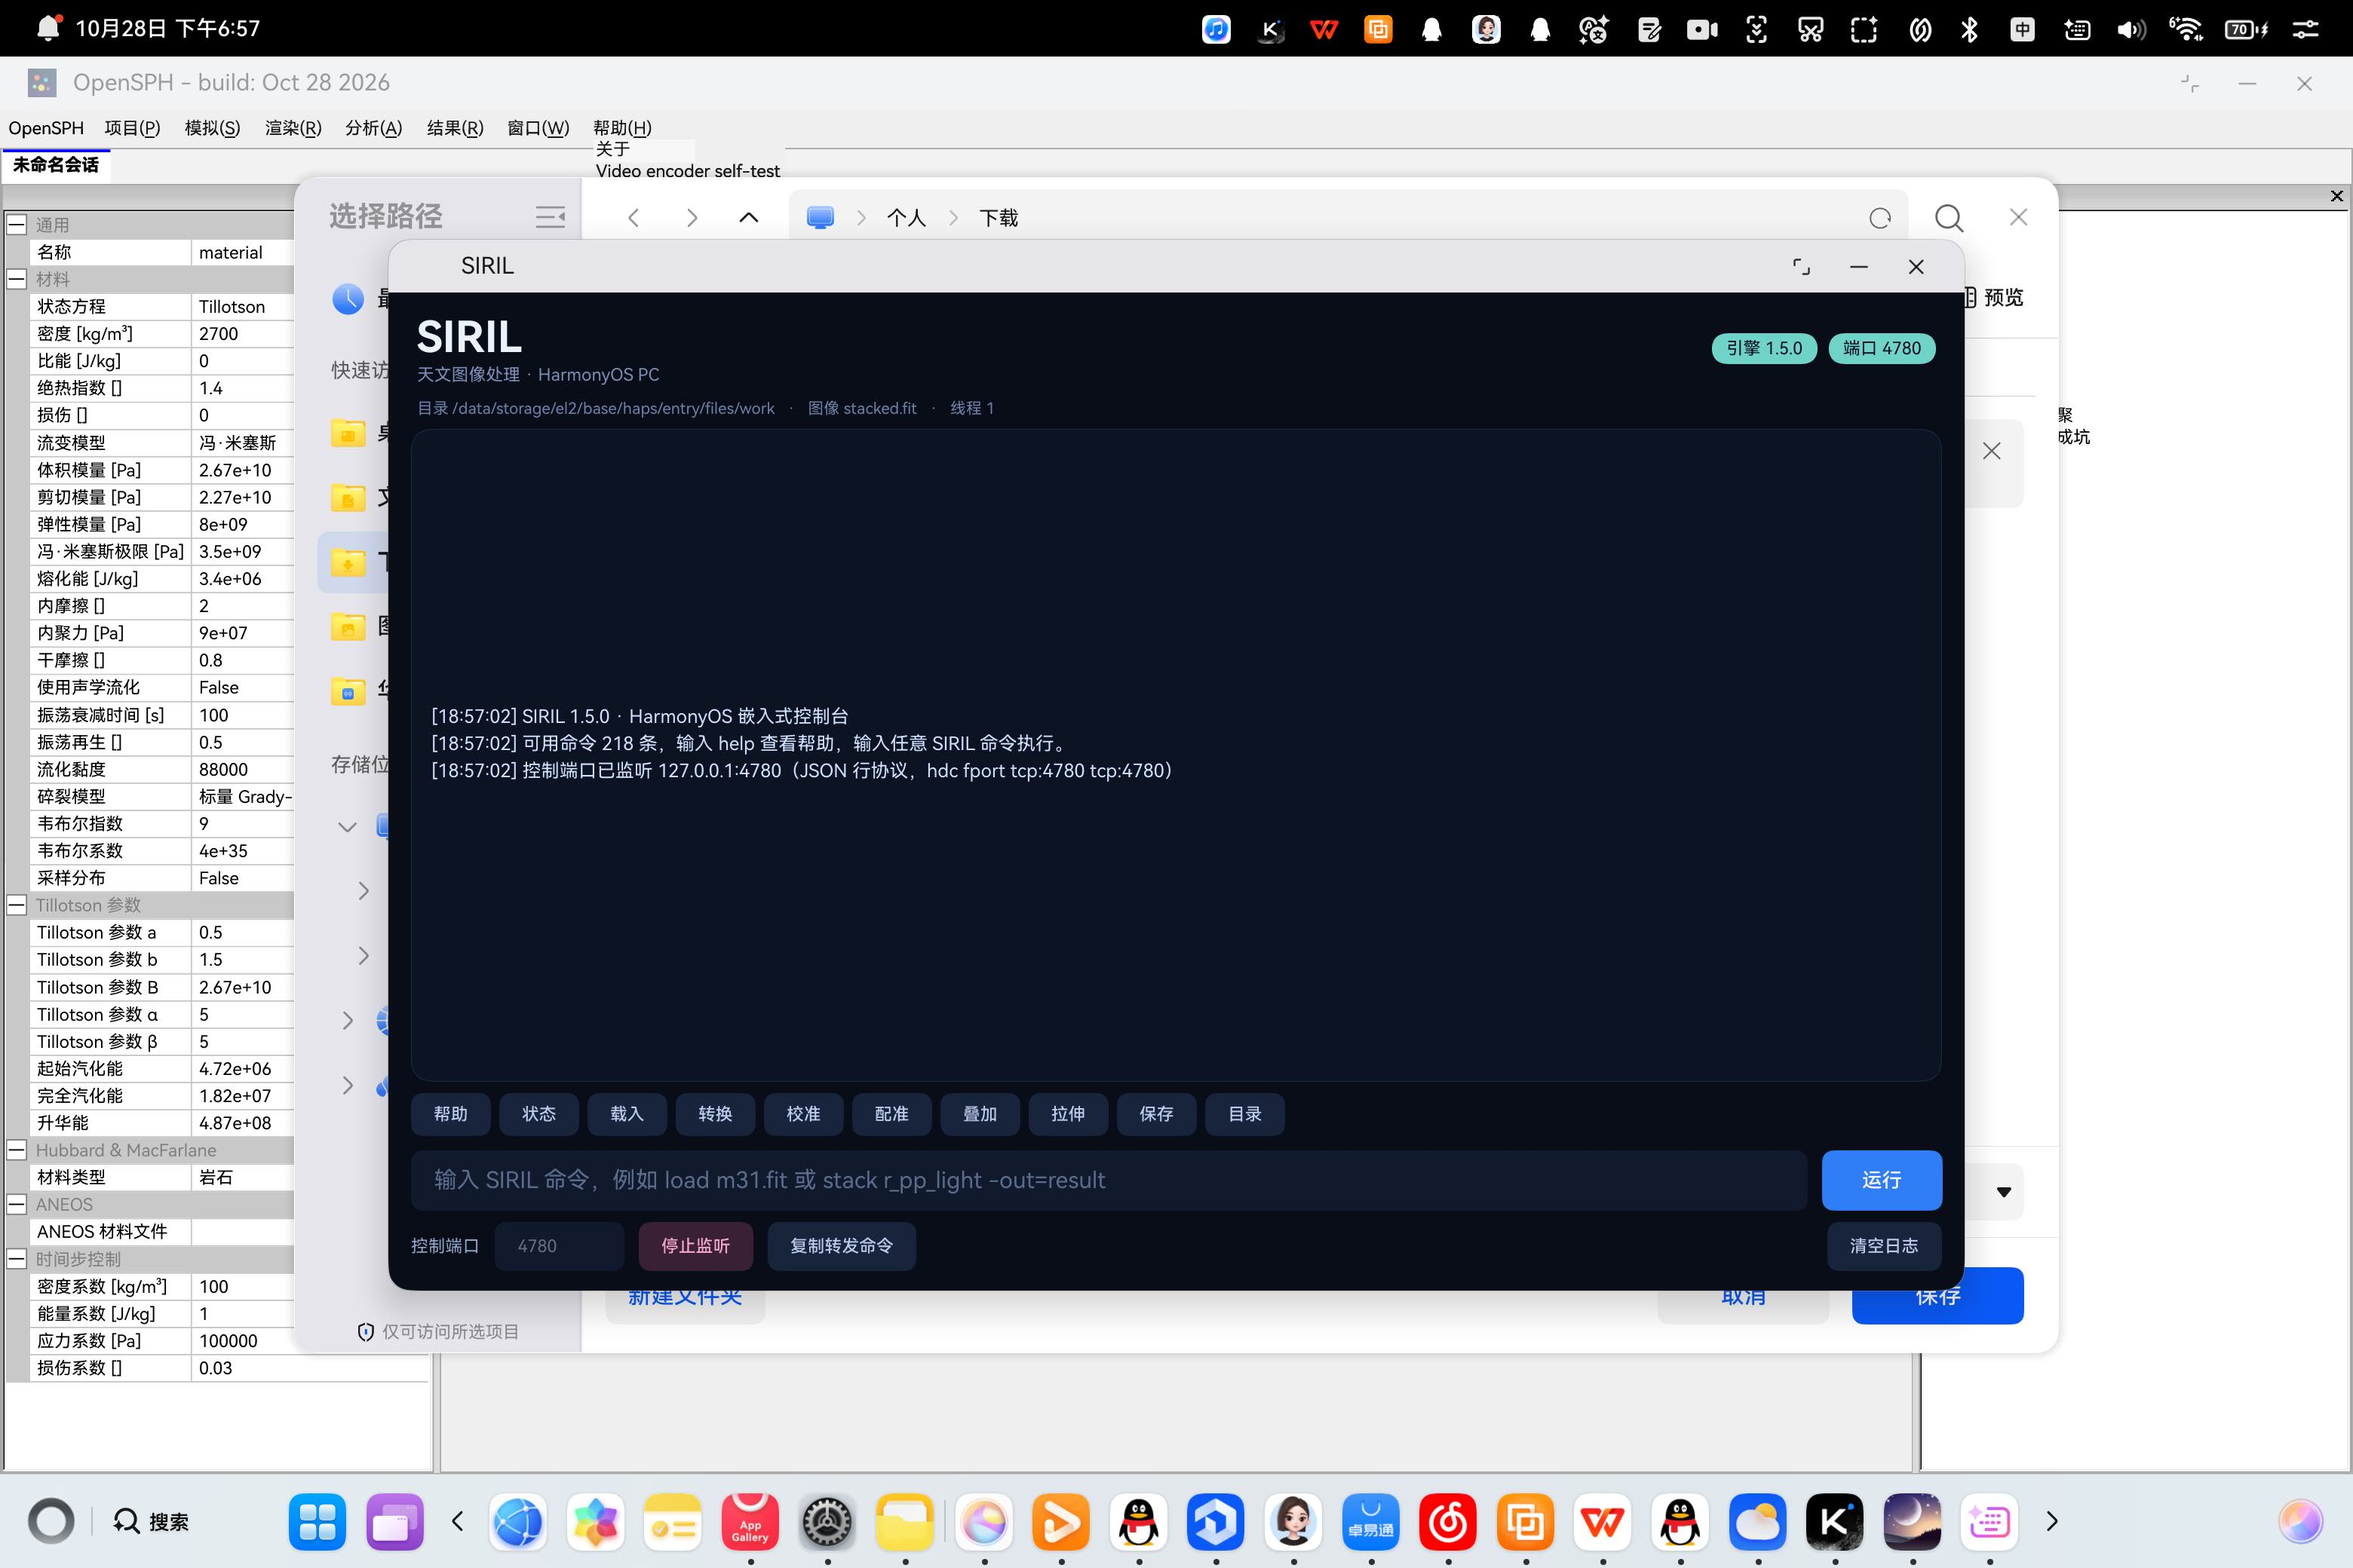
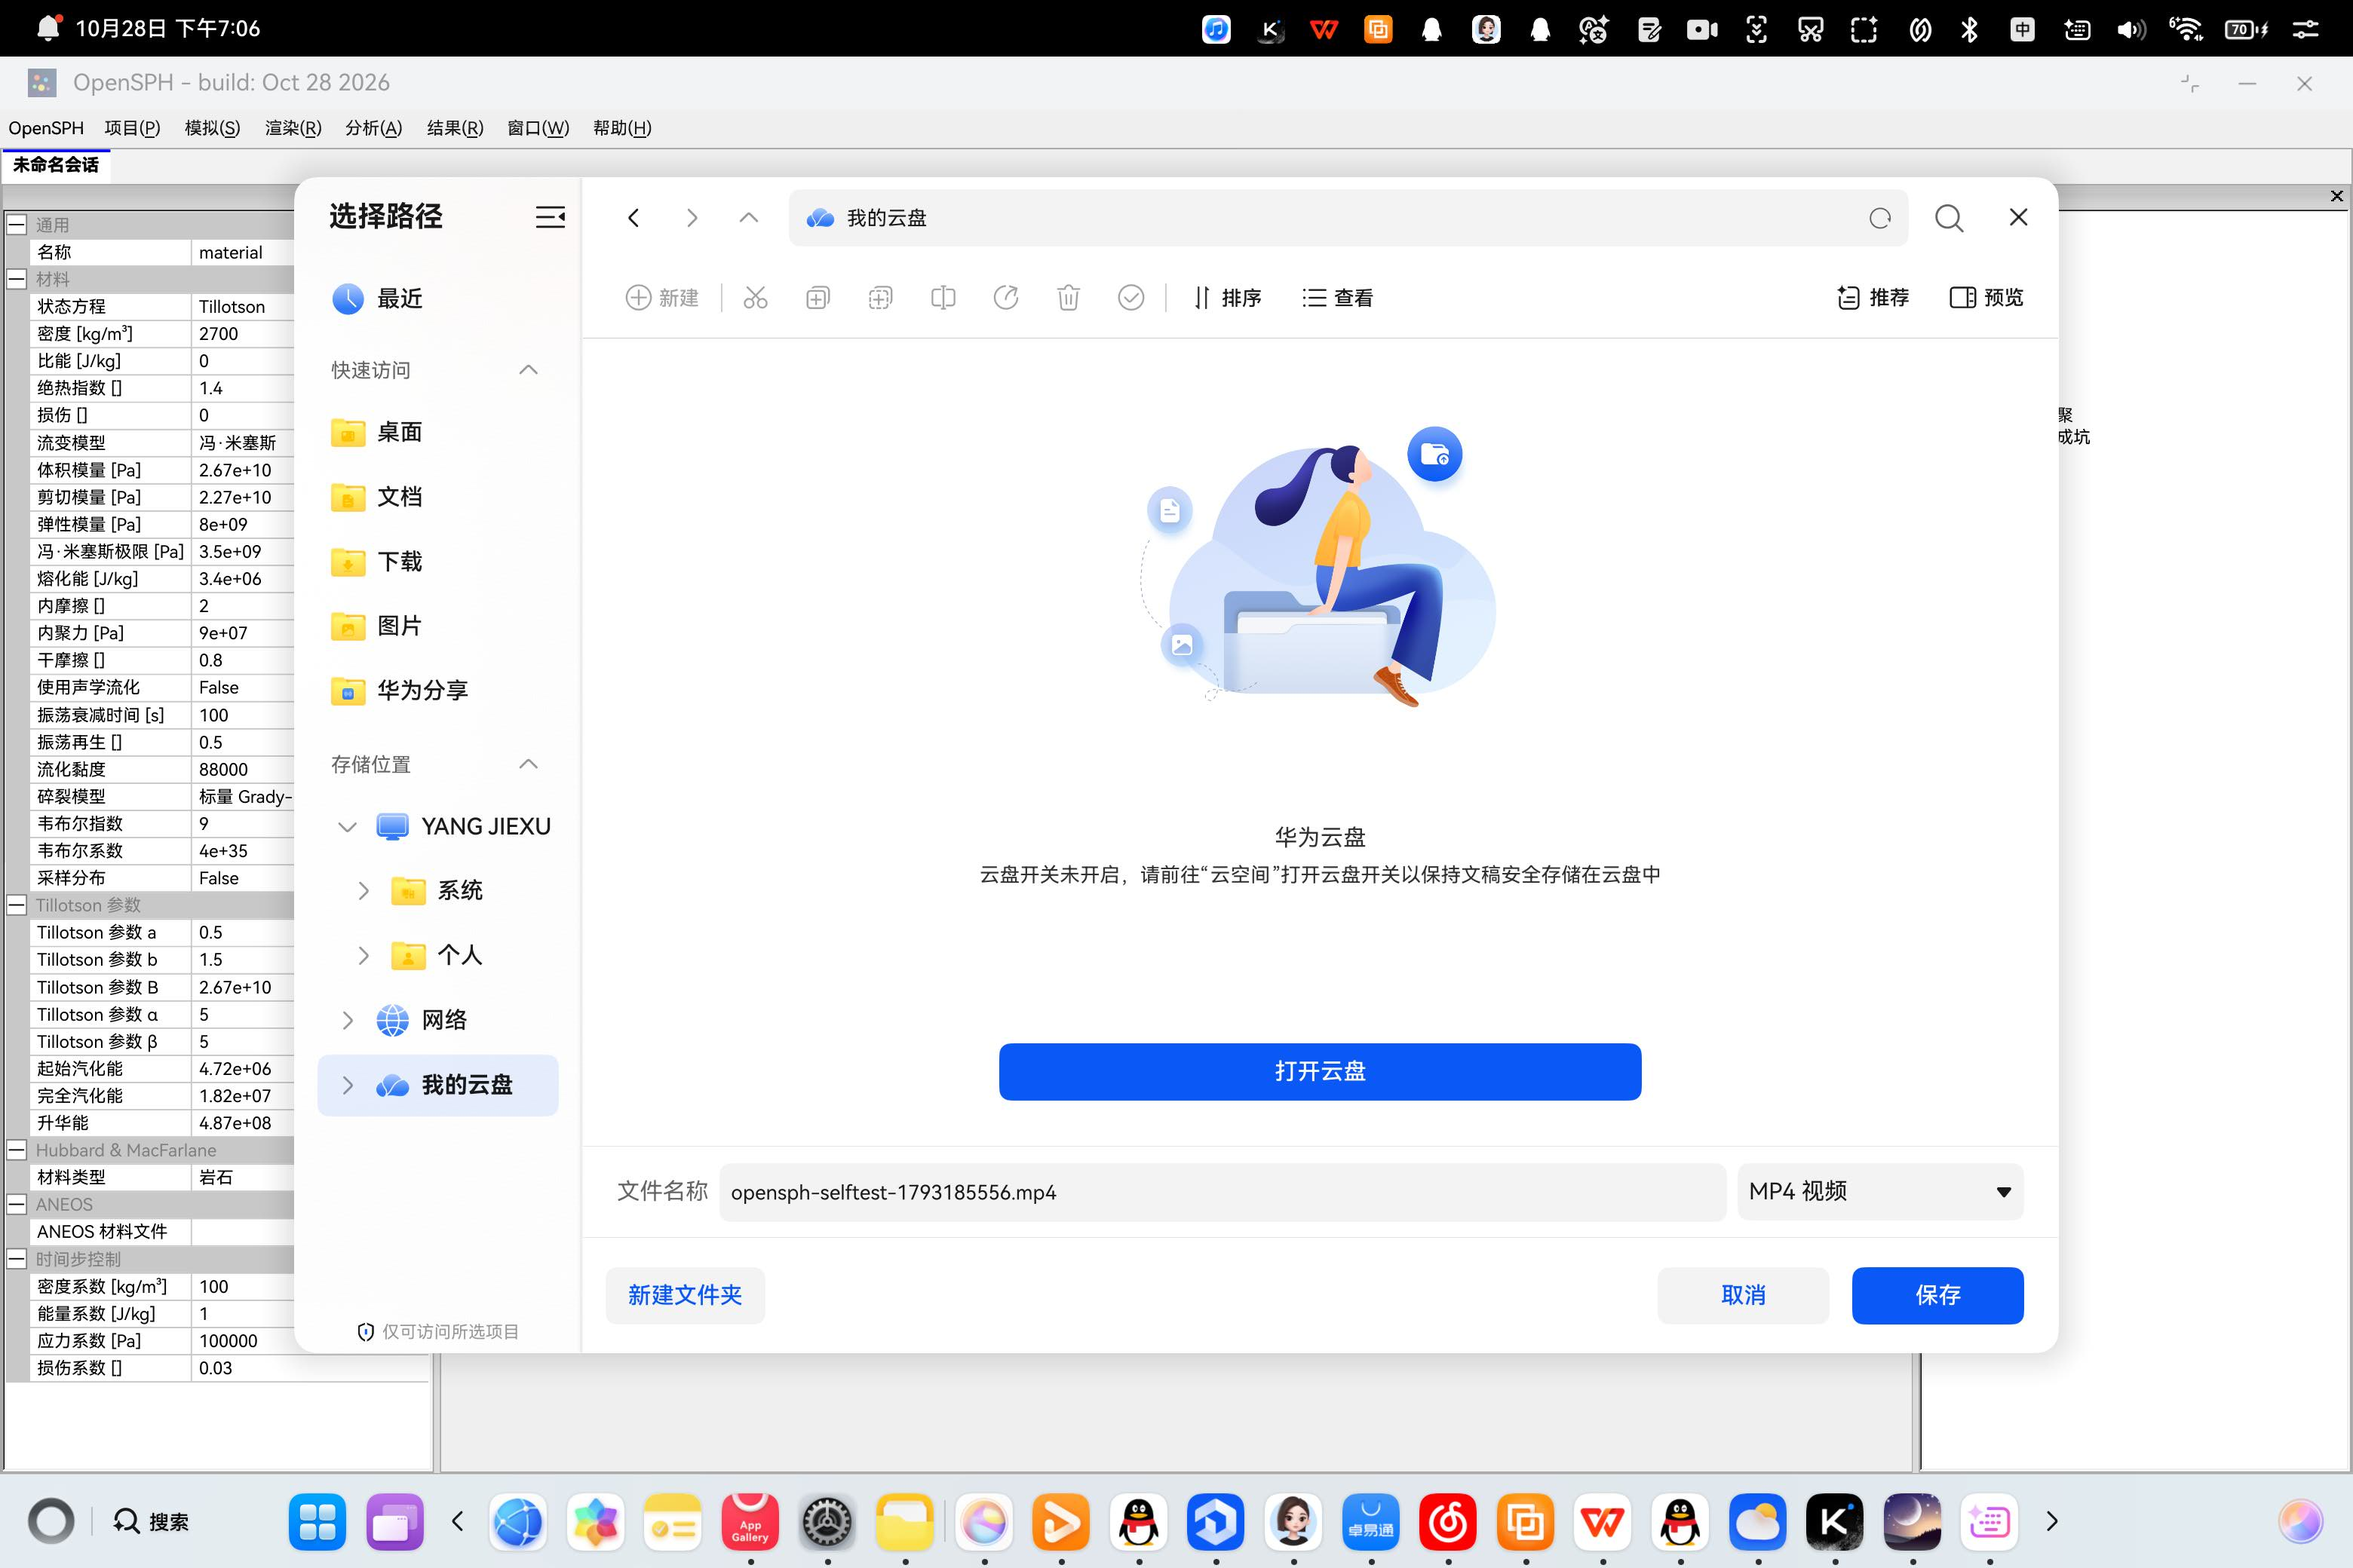
feat(ohos): LAN port exposure with token, signing helper and docs
- UI: 局域网暴露 switch binds 0.0.0.0 and optionally enforces an access token
- scripts: sign-ohos-hap.sh wraps hap-sign-tool with environment material
- build script installs ohpm dependencies when oh_modules is missing
- docs: port exposure, UI evidence and README entry point

diff --git a/docs/harmonyos/CLI.md b/docs/harmonyos/CLI.md
@@ -61,6 +61,22 @@ Each entry has `name`, `min_args`, `usage`, `scriptable` and `requires`
 (`SINGLE_IMAGE`, `SEQUENCE`, `FOR_RGB`, ...).  The app copies the catalog into
 its sandbox and serves it through the `catalog` operation.
 
+## Exposing the port
+
+By default the listener is created on `127.0.0.1` and reached through
+`hdc fport`.  The application also offers a **局域网暴露** switch: when enabled
+it binds `0.0.0.0`, which makes the port reachable from the local network.
+Set a token in the same row in that case — the server then rejects every
+request without a matching `"token"` field:
+
+```json
+{"id":"1","op":"status","token":"my-secret"}
+```
+
+The same behaviour is available programmatically through
+`startServer(bind, port, token)` in the NAPI module; the UI just calls it with
+`127.0.0.1` or `0.0.0.0`.
+
 ## Security
 
 * The listener is created on `127.0.0.1`; it never binds a public interface

diff --git a/README.md b/README.md
@@ -214,3 +214,22 @@ Siril supports SER v3. See [this page](https://free-astro.org/index.php/SER) for
 ## License
 
 [GPL-3.0-or-later](LICENSE.md)
+
+## HarmonyOS PC (MateBook) port
+
+This fork adds a native HarmonyOS application that embeds the headless SIRIL
+engine and exposes **all 218 commands of this build** through an in-app console,
+a TCP control port and a host CLI:
+
+```bash
+hdc fport tcp:4780 tcp:4780
+node scripts/siril-cli.mjs --status
+node scripts/siril-cli.mjs --list
+node scripts/siril-cli.mjs --command "load stacked.fit"
+```
+
+See [docs/harmonyos/README.md](docs/harmonyos/README.md) for architecture,
+[docs/harmonyos/BUILD.md](docs/harmonyos/BUILD.md) for the cross-compiled
+dependency stack and [docs/harmonyos/CLI.md](docs/harmonyos/CLI.md) for the
+protocol and CLI reference.
+

diff --git a/docs/harmonyos/TEST-REPORT.md b/docs/harmonyos/TEST-REPORT.md
@@ -88,6 +88,16 @@ addmax filename [-mask]
 
 ![Command output inside the app](images/siril-ui-help.jpg)
 
+## Port exposure
+
+The console exposes the control port with two modes:
+
+* loopback (`127.0.0.1:4780`) plus `hdc fport` for host tooling — the default;
+* LAN (`0.0.0.0:4780`) through the **局域网暴露** switch, with an optional
+  access token enforced by the server.
+
+![Port controls in the app](images/siril-matebook.jpg)
+
 ## Automated suite
 
 `scripts/test-ohos-cli.mjs` restarts the app (clean test directory), forwards
